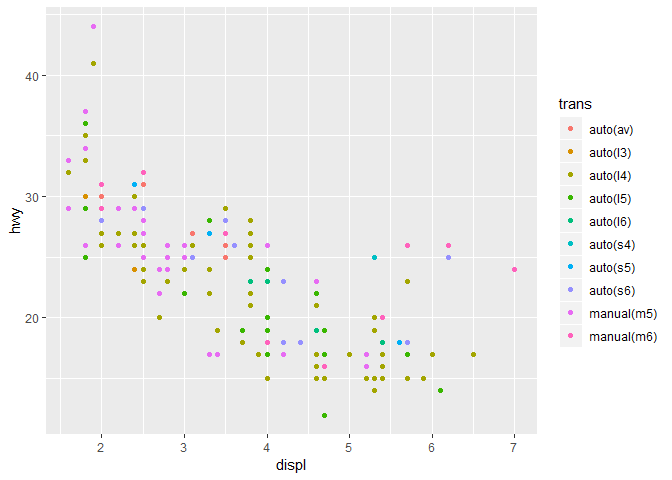
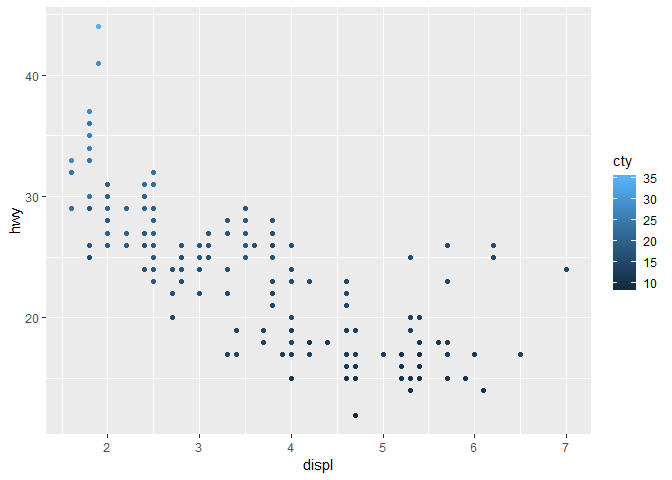
HW completed

diff --git a/index.md b/index.md
@@ -31,7 +31,7 @@ By using *mpg* dataset:
 
 ``` r
 ggplot(data = mpg) +
-  geom_point(mapping = aes(x = displ, y = hwy, color = trans))
+  geom_point(mapping = aes(x = displ, y = hwy, color = cty))
 ```
 
 ![](index_files/figure-markdown_github/unnamed-chunk-2-1.png)
